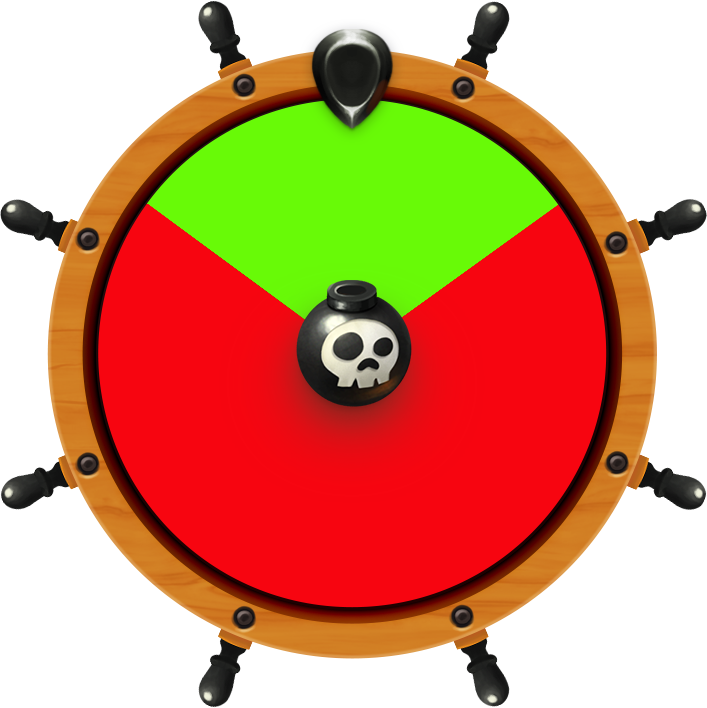
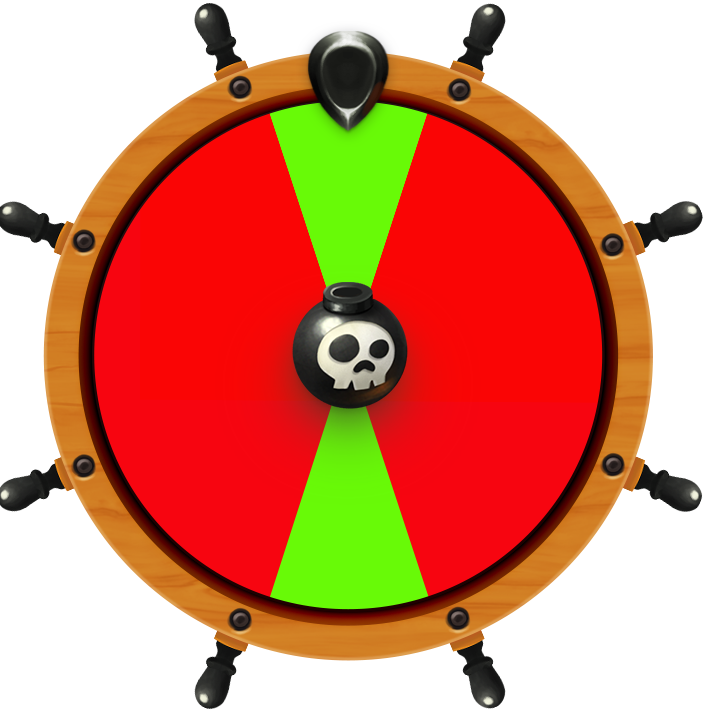
Worked on RegRisk and BigRisk Wheel

diff --git a/src/components/mainRoulette/mainWheel.css b/src/components/mainRoulette/mainWheel.css
@@ -14,7 +14,7 @@
   --reset-duration: 0;
 }
 
-.main-wheel-wrapper, .risk-wheel-wrapper, .loyalty-wheel-wrapper, .big-wheel-wrapper {
+.main-wheel-wrapper, .risk-wheel-wrapper, .loyalty-wheel-wrapper, .big-wheel-wrapper, .reg-risk-wheel-wrapper {
   height: 100%;
   width: 100%;
   display: flex;
@@ -49,6 +49,20 @@
   height: 450px;
   width: 450px;
   background: url("../../images/wheel/risk-wheel/base.png");
+  transform: translate(-50%, -50%);
+  left: 50%;
+  top: 50%;
+  background-repeat: no-repeat;
+  background-size: 100%;
+  background-position: center;
+  margin-top: -35px;
+}
+.reg-risk-wheel-wrapper::before {
+  content: "";
+  position: absolute;
+  height: 450px;
+  width: 450px;
+  background: url("../../images/wheel/regular-risk-wheel/base.png");
   transform: translate(-50%, -50%);
   left: 50%;
   top: 50%;
@@ -114,7 +128,7 @@
 }
 
 /* Conteneur de la roue = cercle rose extérieur */
-.main-wheel-container, .big-wheel-container, .risk-wheel-container, .loyalty-wheel-container {
+.main-wheel-container, .big-wheel-container, .risk-wheel-container, .loyalty-wheel-container, .reg-risk-wheel-container {
   --wheel-font: "DejaVu Sans", sans-serif !important;
   --wheel-size: 430px;
   --wheel-slice-spacing: 50px;
@@ -129,7 +143,7 @@
   --spinning-duration: 4s;
   --reset-duration: 0;
 }
-.main-wheel-container, .big-wheel-container, .risk-wheel-container, .loyalty-wheel-container {
+.main-wheel-container, .big-wheel-container, .risk-wheel-container, .loyalty-wheel-container, .reg-risk-wheel-container {
   display: block;
   position: relative;
   box-sizing: content-box;
@@ -192,6 +206,20 @@
   transform: translateX(-50%);
   left: 50%;
 }
+.reg-risk-wheel-container::before {
+  content: "";
+  display: block;
+  position: absolute;
+  z-index: 4;
+
+  background: url(../../images/wheel/regular-risk-wheel/marker.png) no-repeat;
+  background-size: 100%;
+  height: 275px;
+  width: 150px;
+  top: 3%;
+  transform: translateX(-50%);
+  left: 50%;
+}
 .loyalty-wheel-container::before {
   content: "";
   display: block;
@@ -210,7 +238,7 @@
 }
 
 /* Roue */
-.main-wheel, .big-wheel, .risk-wheel, .loyalty-wheel {
+.main-wheel, .big-wheel, .risk-wheel, .loyalty-wheel, .reg-risk-wheel {
   display: block;
   position: relative;
   box-sizing: content-box;
@@ -264,6 +292,19 @@
   top: 50%;
   left: 50%;
 }
+/* for Regular risk circle */
+.reg-risk-wheel::before {
+  content: "";
+  position: absolute;
+  width: 340px;
+  height: 340px;
+  background: url(../../images/wheel/regular-risk-wheel/content.png) no-repeat;
+  background-position: center;
+  background-size: cover;
+  transform: translate(-50%, -50%) rotate(90deg);
+  top: 50%;
+  left: 50%;
+}
 /* for loyalty circle */
 .loyalty-wheel::before {
   content: "";
@@ -278,7 +319,7 @@
   left: 50%;
 }
 
-.main-wheel.spinning, .big-wheel.spinning, .risk-wheel.spinning, .loyalty-wheel.spinning {
+.main-wheel.spinning, .big-wheel.spinning, .risk-wheel.spinning, .loyalty-wheel.spinning, .reg-risk-wheel.spinning {
   transition: transform var(--spinning-duration);
   transform: rotate(calc((var(--nb-turn) * 360deg + (-360deg * var(--selected-item) / var(--nb-item, 1))) - 90deg));
   /* width: 450px;
@@ -293,6 +334,10 @@
     )
   );
 } */
+
+.second-wheel-padd {
+  padding-top: 32px;
+}
 
 /* CSS For stand */
 .main-wheel-container::after  {
@@ -356,7 +401,7 @@
 }
 
 /* Element sur la roue */
-.main-wheel-item, .big-wheel-item, .risk-wheel-item, .loyalty-wheel-item {
+.main-wheel-item, .big-wheel-item, .risk-wheel-item, .loyalty-wheel-item, .reg-risk-wheel-item {
   display: block;
   position: absolute;
   box-sizing: border-box;
@@ -378,7 +423,7 @@
 }
 
 /* Background de l'élément = triangle rose plus clair */
-.main-wheel-item:before, .big-wheel-item:before, .risk-wheel-item:before, .loyalty-wheel-item:before {
+.main-wheel-item:before, .big-wheel-item:before, .risk-wheel-item:before, .loyalty-wheel-item:before, .reg-risk-wheel-item:before {
   content: " ";
   display: block;
   position: absolute;
@@ -502,7 +547,7 @@ img.spinTxt {
   }
 }
 @media screen and (max-width: 767px) {
-  .main-wheel-container, .big-wheel-container, .risk-wheel-container, .loyalty-wheel-container {
+  .main-wheel-container, .big-wheel-container, .risk-wheel-container, .loyalty-wheel-container, .reg-risk-wheel-container {
     scale: 0.8;
     left: 50%;
     transform: translateX(-63%);
@@ -510,13 +555,18 @@ img.spinTxt {
   .big-wheel-container::after {
     left: 12px;
   }
-  .risk-wheel-wrapper {
+  .risk-wheel-wrapper, .reg-risk-wheel-wrapper {
     scale: 0.75;
   }
 .loyalty-wheel-wrapper {
     scale: 0.9;
   }
   .risk-wheel-container::before {
+    width: 85px;
+    height: 289px;
+    top: -10%;
+  }
+  .reg-risk-wheel-container::before {
     width: 85px;
     height: 289px;
     top: -10%;
@@ -539,6 +589,10 @@ img.spinTxt {
     width: 400px;
     height: 400px;
   }
+  .reg-risk-wheel::before {
+    width: 400px;
+    height: 400px;
+  }
   .big-wheel::before {
     width: 280px;
     height: 280px;
@@ -549,6 +603,9 @@ img.spinTxt {
     top: 19%;
     transform: translateX(-50%);
     left: 50%;
+  }
+  .second-wheel-padd {
+    padding-top: 56px;
   }
 }
 
